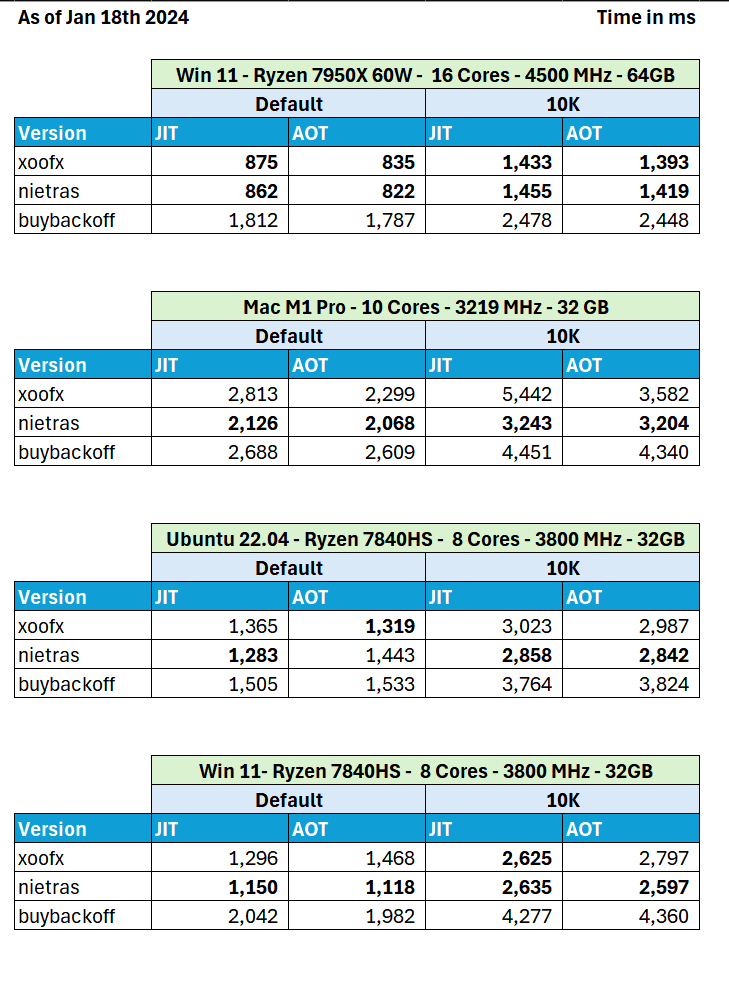
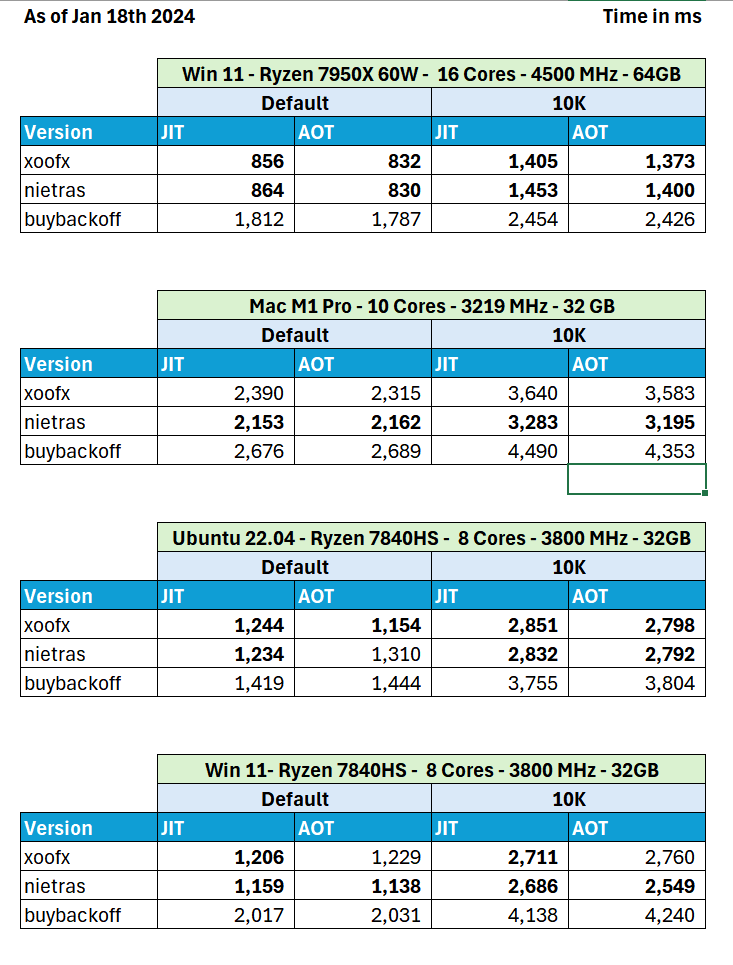
Update readme and benchmarks

diff --git a/readme.md b/readme.md
@@ -12,6 +12,7 @@ Aggregated results for C#/F# at https://github.com/praeclarum/1brc
 - Multiple threads and some SIMD
   - SIMD used [here](https://github.com/xoofx/Fast1BRC/blob/28589e047c4106357995d4bdb37b70d16f5184d7/Program.cs#L356-L388) mostly for finding the index of `;` separating the city name with the temperature
   - We can then keep the full city name in a single `Vector256<byte>` register (when the city name is `<=` 32)
+  - For the threads, I'm keeping the main thread busy processing the last block
 - On Windows, no memory mapped file but RandomAccess reopening the same handle per thread
   - As I discovered that it is lowering OS contention on Windows
   - On Linux, it seems that it's less an issue, performance being relatively the same
@@ -21,7 +22,7 @@ Aggregated results for C#/F# at https://github.com/praeclarum/1brc
   - One with a key of 128 bytes to support the limit of city names (100 characters)
   - Both are implemented with `Vector256<byte>`
   - Cache entries are aligned on 64 bytes to allow better cache usage
-  - Dictionary implementation is taken from .NET BCL but reimplemented with unsafe and with using pointers directly instead of indices
+  - [Dictionary implementation](https://github.com/xoofx/Fast1BRC/blob/28589e047c4106357995d4bdb37b70d16f5184d7/Program.cs#L889-L932) is taken from .NET BCL but reimplemented with unsafe and with using pointers directly instead of indices
   - For the 32 bytes key, the implementation inline things directly so that we maximize the codegen with everything being kept in registers.
   - For the hash of the dictionary (both 32 bytes and 128 bytes key), I'm hashing the first 16 bytes by XORing the 2 first `ulong` with an intermediate multiplication by 397 for the first `ulong` (prime number that gives good results). It is enough simple and efficient to not have any collisions.
 - No particular tricks for parsing the temperature, apart assuming that there is only 1 digit after the `.`.
@@ -41,8 +42,8 @@ Benchmark performed on 3 different machines with a different combination of OS, 
 Some comments:
 
 - Results are varying a lot! 📊
-- My solution comes really close 🥈, but Nietras solution is really more consistent and overall winning! 🥇
-  - It is interesting to note that Nietras and my solution are implemented with similar techniques, very close in most benchmarks, but there are some exceptions (e.g MacOS) that I haven't been able to explain. It looks like it relates mainly to the JIT struggling more while the AOT is similar, but haven't digged up exactly why... 🤔
+- My solution comes really really close 🥈 to Nietras solution (5% on average), but his solution is probably slightly more consistent and overall winning! 🥇
+  - I discovered that it can be easy to mess things with a slight change that could work on one machine/platform but not work on another. Process/Threading priority tweaking are super sensitive and I stopped tweaking them in the end and I'm using the default. 😅
 - The results vary vastly between HW / OS 💾
   - The first aspect is the performance of the M2/SSD disk access
   - The second aspect is CPU performance (number of cores, caches, clock...etc.)
